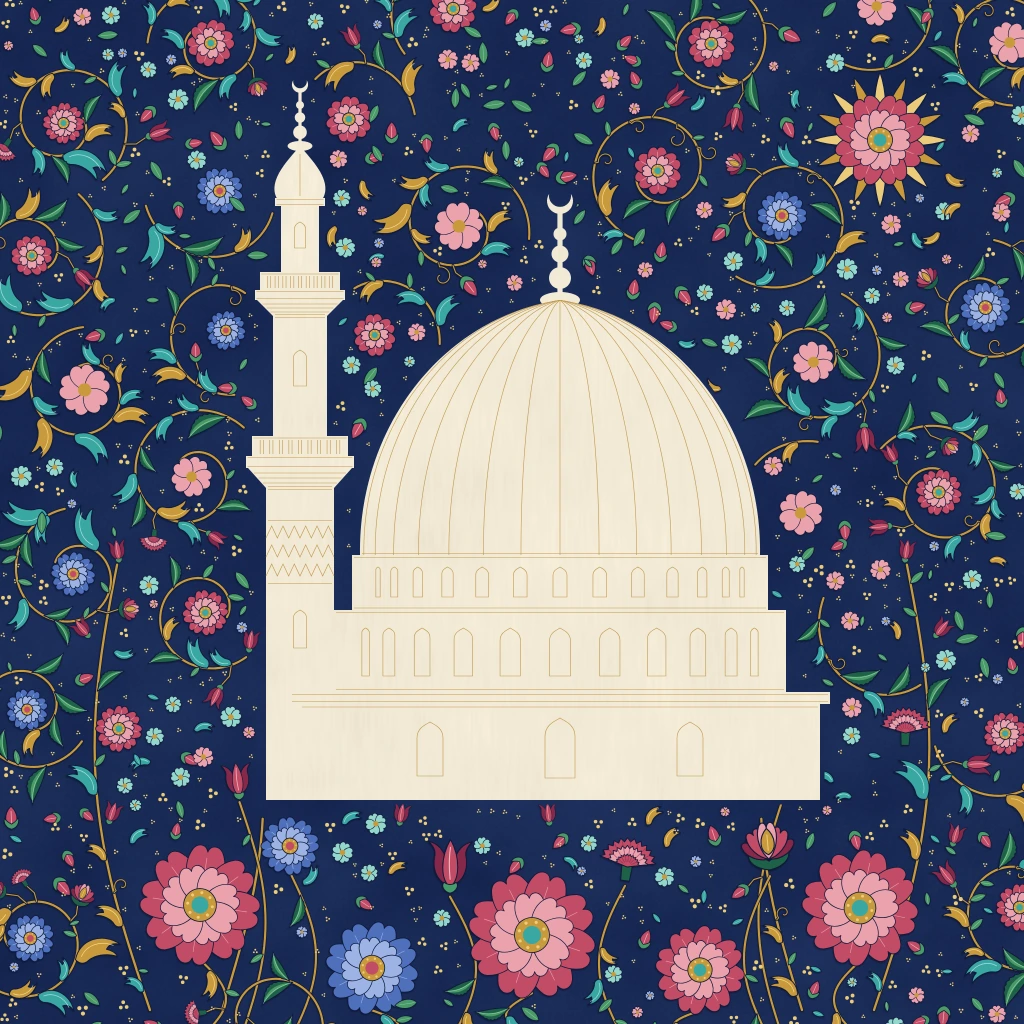
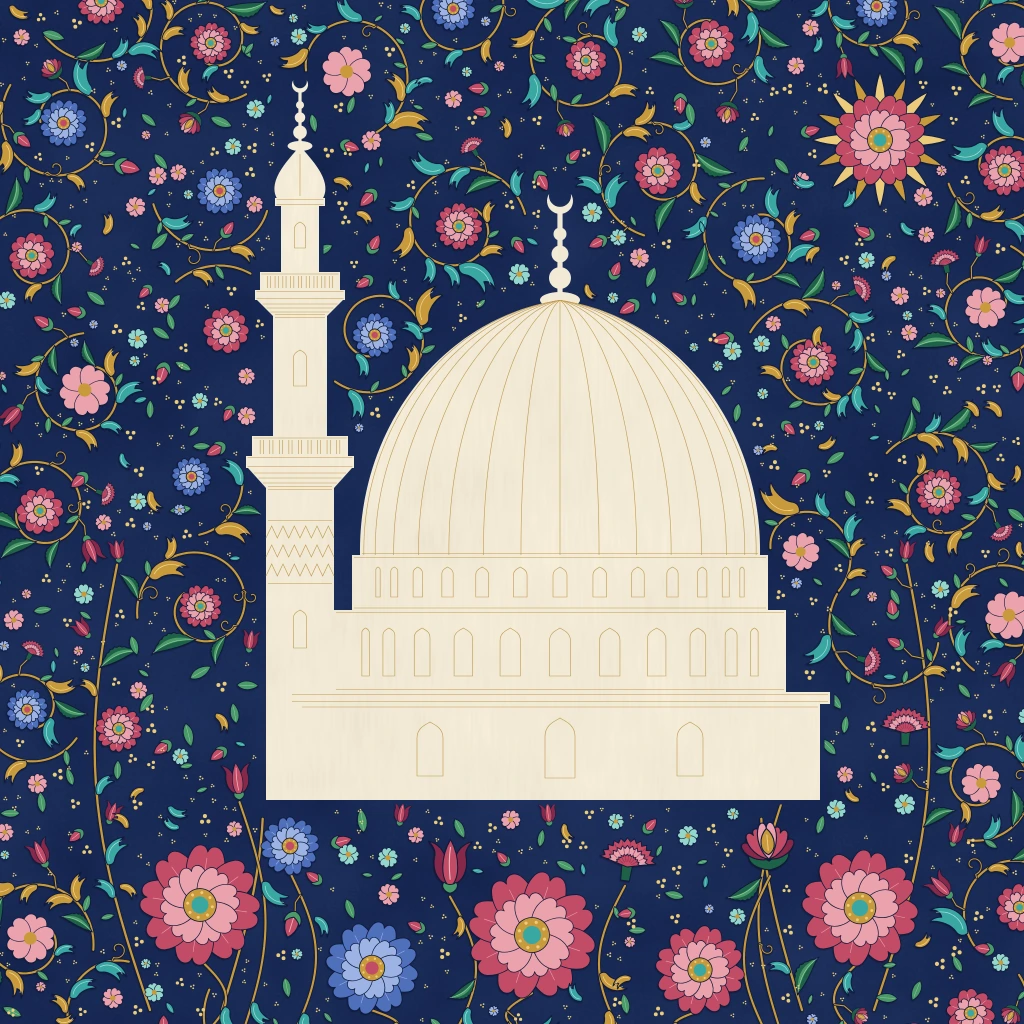
Atölye: süren stil çalışmalarının ara kaydı
Claude-Session: https://claude.ai/code/session_01Q8CfoBGMPN7gfLWQYpMs1J

Changed region(s): [[0.0, 0.0, 1.0, 1.0], [0.5625, 0.875, 0.6562, 1.0], [0.375, 0.9688, 0.4062, 1.0]]

diff --git a/atolye/stiller/S-040-ters-zemin/ornek.html b/atolye/stiller/S-040-ters-zemin/ornek.html
@@ -514,14 +514,14 @@
       const x = r() * W, y = r() * W;
       if (uzak(x, y) < 34) continue;
       let uygun = true;
-      for (const m of merkezler) if (Math.hypot(m.x - x, m.y - y) < 132) { uygun = false; break; }
+      for (const m of merkezler) if (Math.hypot(m.x - x, m.y - y) < 116) { uygun = false; break; }
       if (uygun) for (const c of capalar) if (Math.hypot(c.x - x, c.y - y) < c.R + 64) { uygun = false; break; }
       if (uygun) merkezler.push({ x, y });
     }
   })();
   merkezler.forEach((m, idx) => {
     const yonu = ((Math.floor(m.x / 140) + Math.floor(m.y / 140)) % 2 ? 1 : -1);
-    const Rs = 62 + r() * 16;
+    const Rs = 56 + r() * 14;
     const th0 = r() * Math.PI * 2;
     const tur = 1.35 * Math.PI * 2;
     const R = Math.min(19 + r() * 7, uzak(m.x, m.y) - HALE - 2);
@@ -554,7 +554,7 @@
     }
   });
   // sarmalların süsleri (dallar işaretlendikten sonra)
-  for (const m of merkezler) if (m.nok) susle(m.nok, 5, true);
+  for (const m of merkezler) if (m.nok) susle(m.nok, 4, true);
   for (const d of dallar.slice()) if (d.kal >= 2) susle(d.nok, 6, false);
 
   // ------------------------------------------------------------ 4) seyrek dolgu: küçük yaprak, gonca, beşli çiçek; altın nokta üçlüleri
@@ -566,7 +566,7 @@
         const px = x + (r() - 0.5) * adim * 0.8, py = y + (r() - 0.5) * adim * 0.8;
         const R = [9.5, 6, 3][gec] * (0.85 + r() * 0.3);
         if (!bosMu(px, py, R + 2)) continue;
-        if (r() < [0.35, 0.5, 0.72][gec]) continue;
+        if (r() < [0.22, 0.42, 0.7][gec]) continue;
         isaretle(px, py, R + 1.5);
         const k = r();
         if (gec === 0) dolgu.push(k < 0.28 ? { t: 'penc', x: px, y: py, R, renk: r() < 0.5 ? P.gulAcik : P.firuzeAcik } : k < 0.45 ? { t: 'rumi', x: px - R, y: py, L: R * 2.2, a: r() * 6.28, ayna: r() < 0.5, renk: r() < 0.5 ? P.firuze : P.altin } : k < 0.75 ? { t: 'kucuk', x: px - R, y: py, L: R * 2.2, a: r() * 6.28 } : { t: 'gonca', x: px, y: py + R * 0.8, L: R * 1.9, a: r() * 6.28 });
